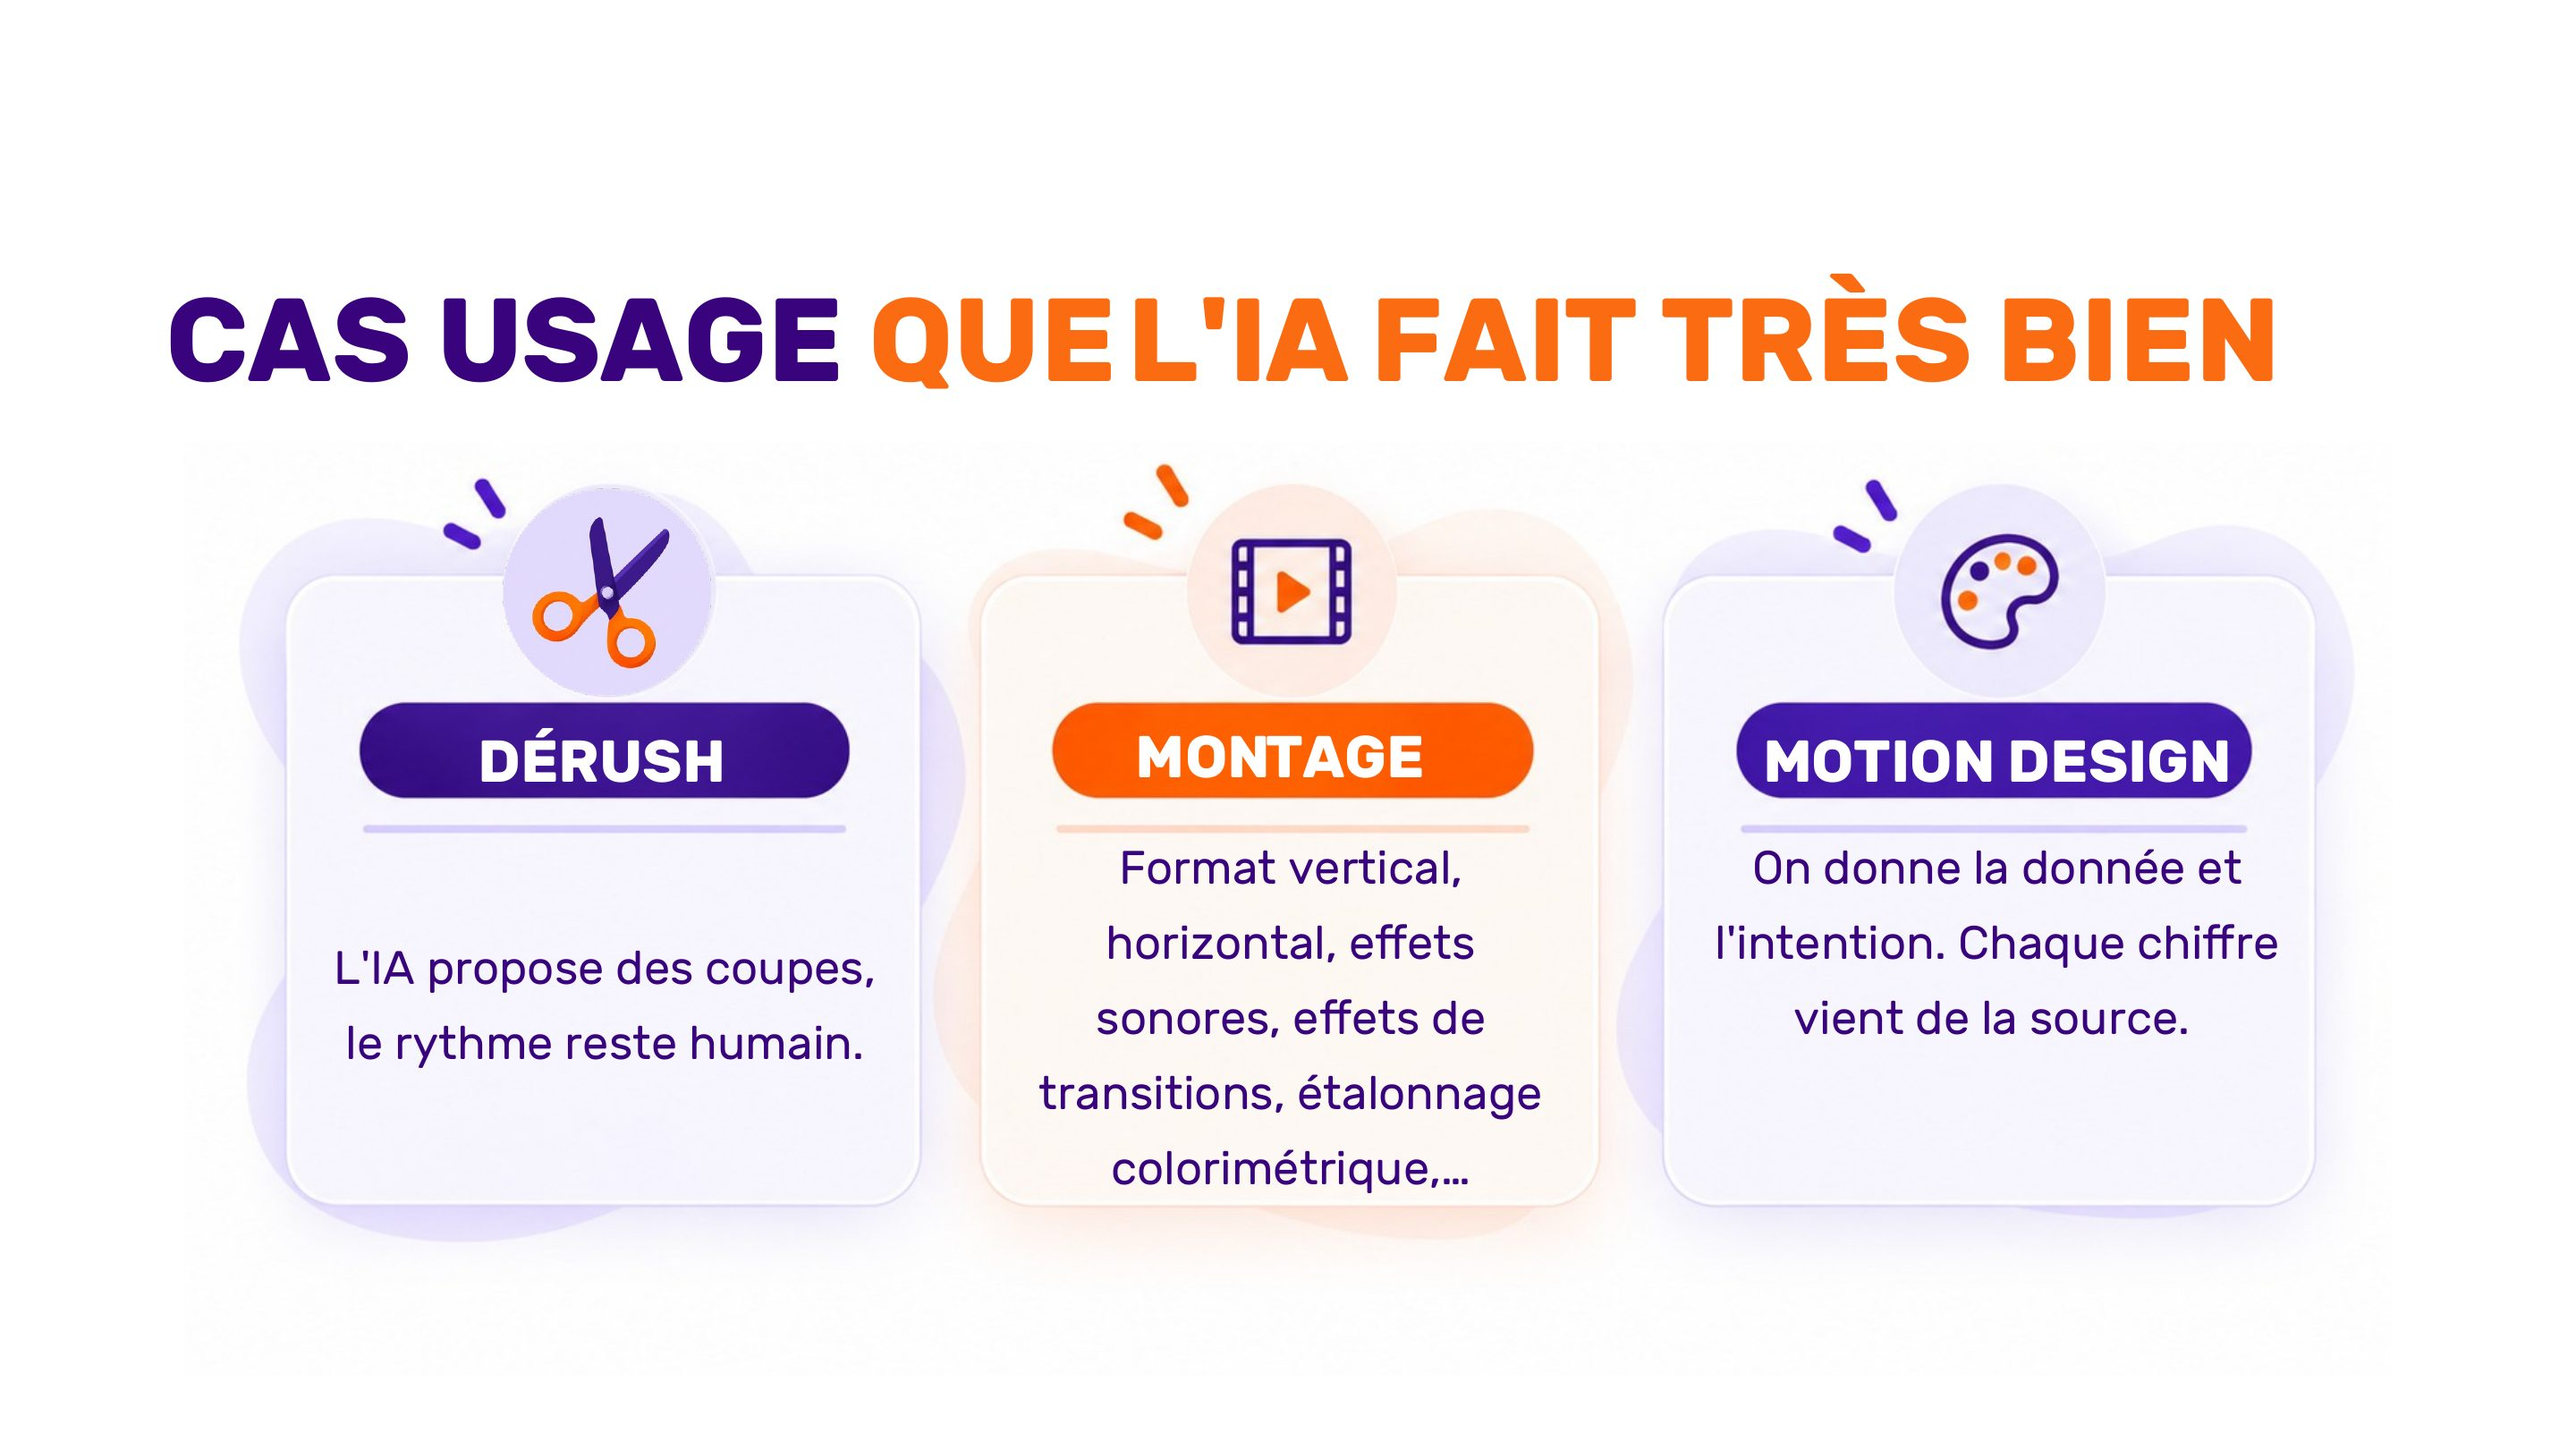
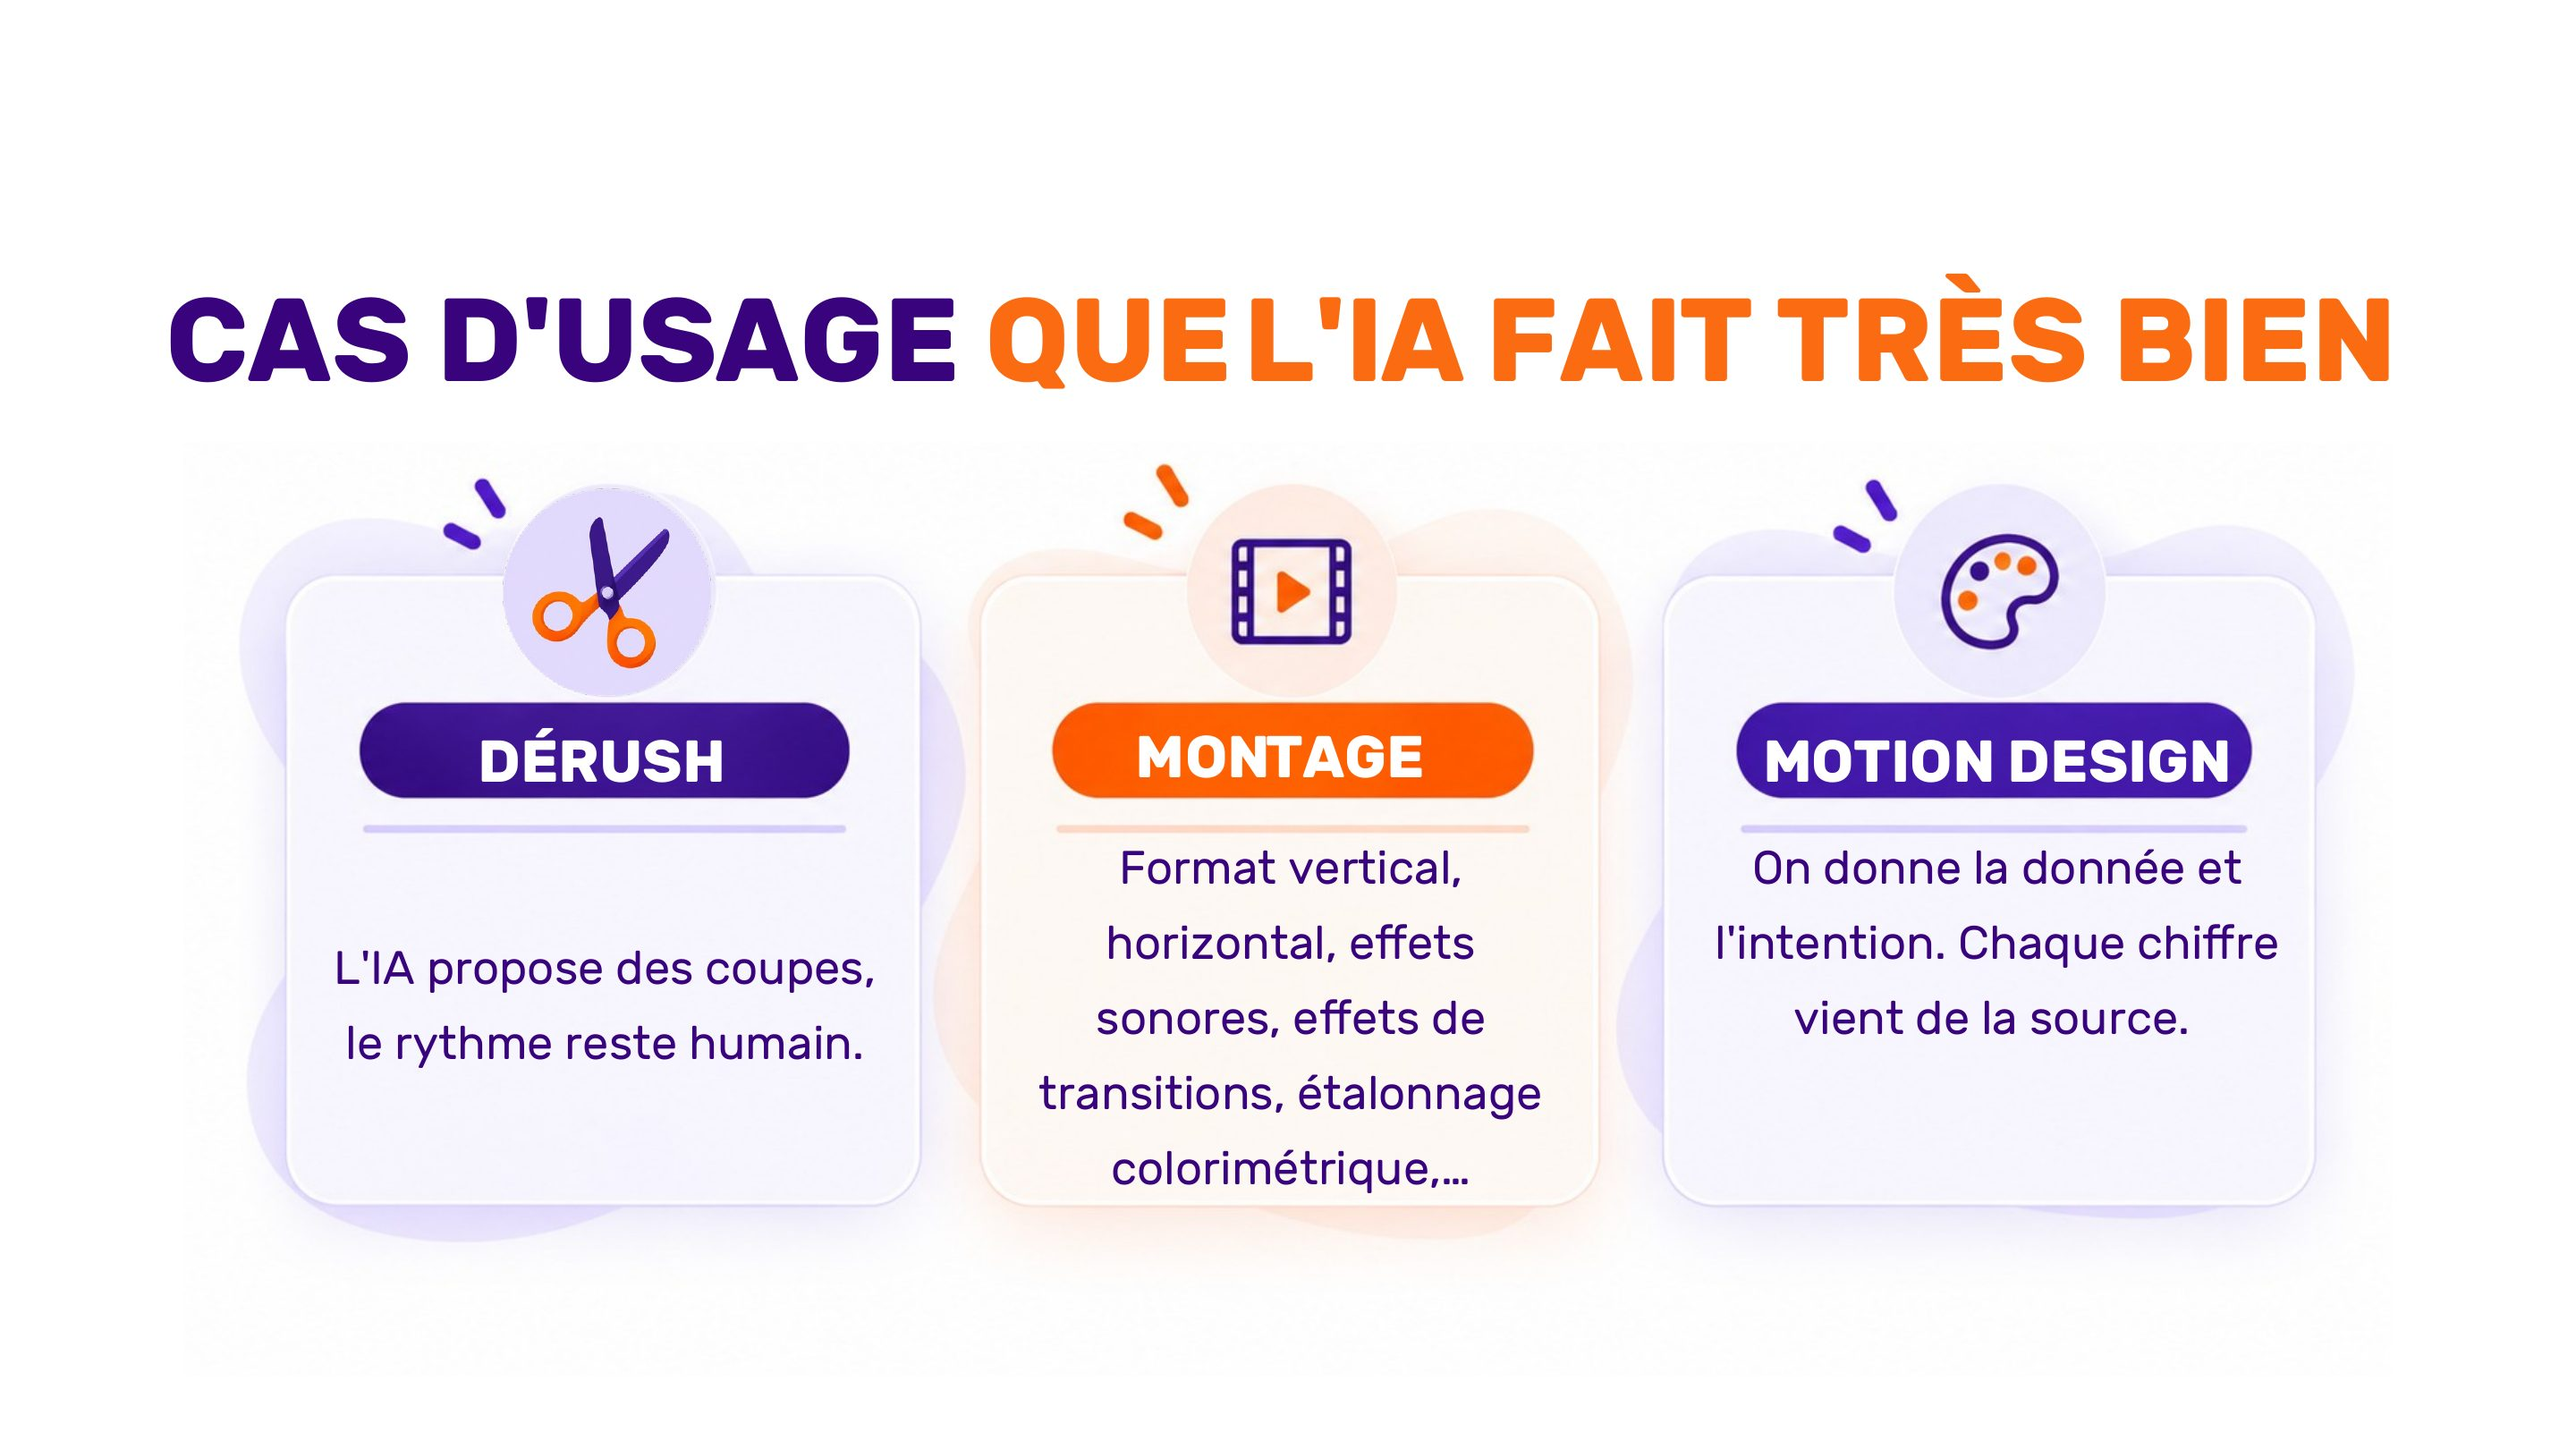
AI Flash : « Cas d'usage », slide 49

Changed region(s): [[0.1875, 0.1852, 0.9375, 0.2778]]

diff --git a/ai-flash-cefora/speaker/index.html b/ai-flash-cefora/speaker/index.html
@@ -725,8 +725,8 @@
     <a class="lien" style="left:54.119%;top:31.539%;width:37.406%;height:44.792%" href="https://video.marketing-makers.com/video/vid_cmuzjnw1n004506m0f8315q71/view" target="_blank" rel="noopener" title="Ouvrir le lien"></a>
   </section>
 
-  <section class="slide" data-title="CAS USAGE QUE L&#x27;IA FAIT TRÈS BIEN">
-    <h2 class="sr-only">CAS USAGE QUE L&#x27;IA FAIT TRÈS BIEN</h2>
+  <section class="slide" data-title="CAS D&#x27;USAGE QUE L&#x27;IA FAIT TRÈS BIEN">
+    <h2 class="sr-only">CAS D&#x27;USAGE QUE L&#x27;IA FAIT TRÈS BIEN</h2>
     <img class="bg" src="../images/s-49.jpg" alt="">
 
     <div class="notes"><p>Dérush : l&#x27;IA propose des coupes, le rythme reste humain. Montage : formats, effets sonores, transitions, étalonnage. Motion design : on donne la donnée et l&#x27;intention, chaque chiffre vient de la source. Exemple : dans « Vu dans les médias », chaque sous-titre reprend les mots exacts des interviews, transcrits mot à mot.</p></div>

diff --git a/ai-flash-cefora/index.html b/ai-flash-cefora/index.html
@@ -707,8 +707,8 @@
     <a class="lien" style="left:54.119%;top:31.539%;width:37.406%;height:44.792%" href="https://video.marketing-makers.com/video/vid_cmuzjnw1n004506m0f8315q71/view" target="_blank" rel="noopener" title="Ouvrir le lien"></a>
   </section>
 
-  <section class="slide" data-title="CAS USAGE QUE L&#x27;IA FAIT TRÈS BIEN">
-    <h2 class="sr-only">CAS USAGE QUE L&#x27;IA FAIT TRÈS BIEN</h2>
+  <section class="slide" data-title="CAS D&#x27;USAGE QUE L&#x27;IA FAIT TRÈS BIEN">
+    <h2 class="sr-only">CAS D&#x27;USAGE QUE L&#x27;IA FAIT TRÈS BIEN</h2>
     <img class="bg" src="images/s-49.jpg" alt="">
 
   </section>
